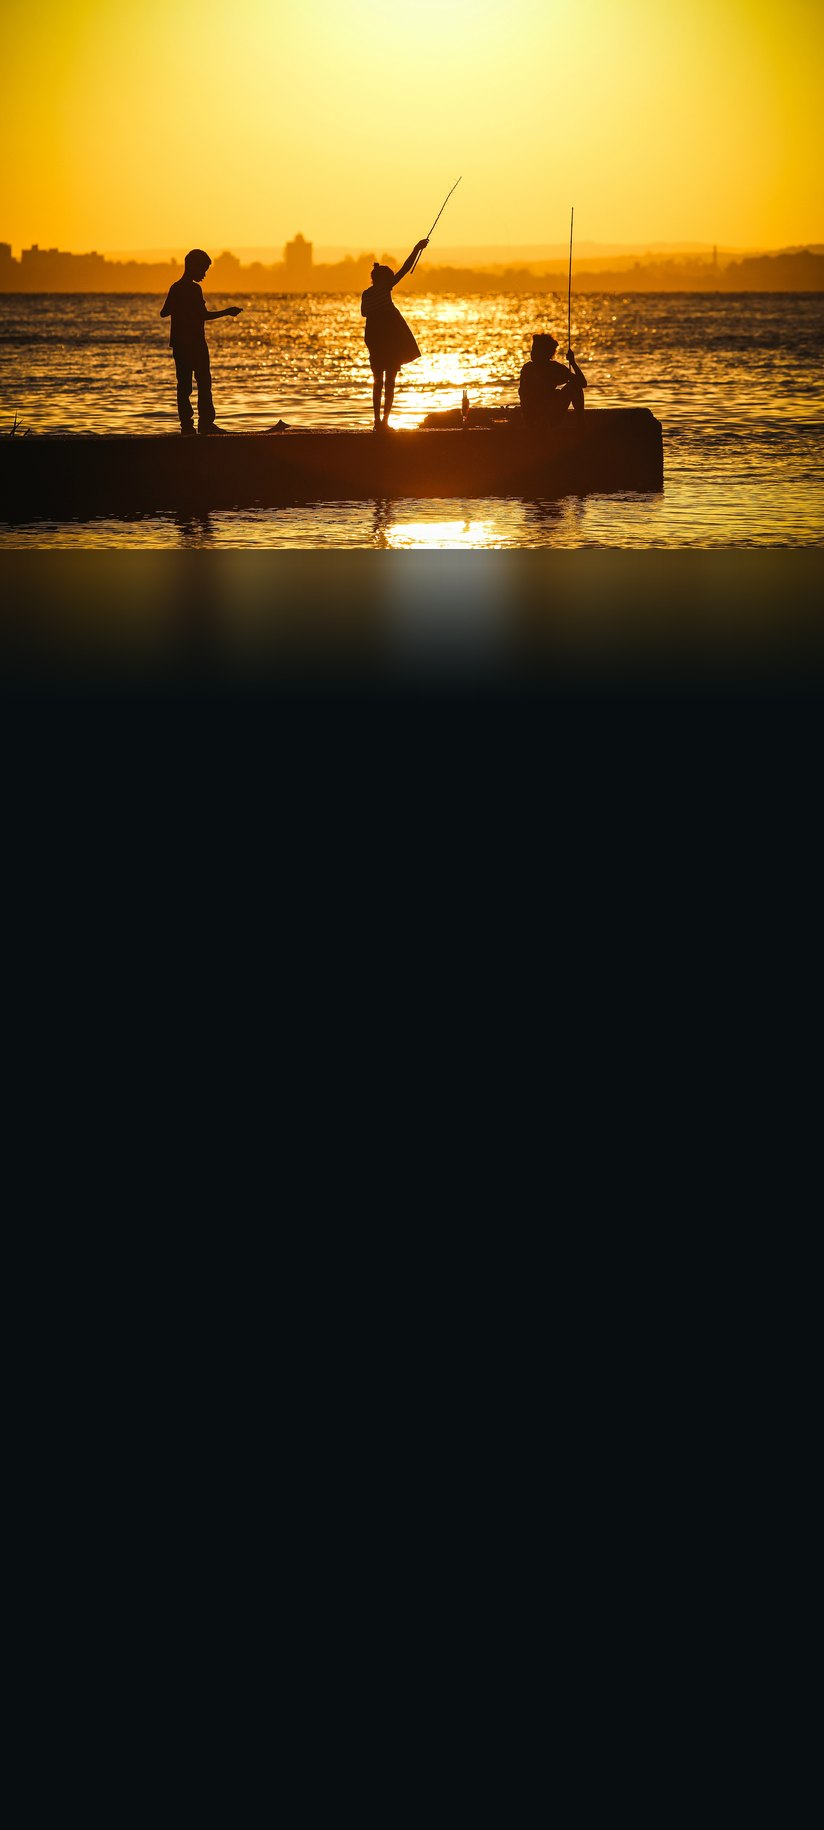
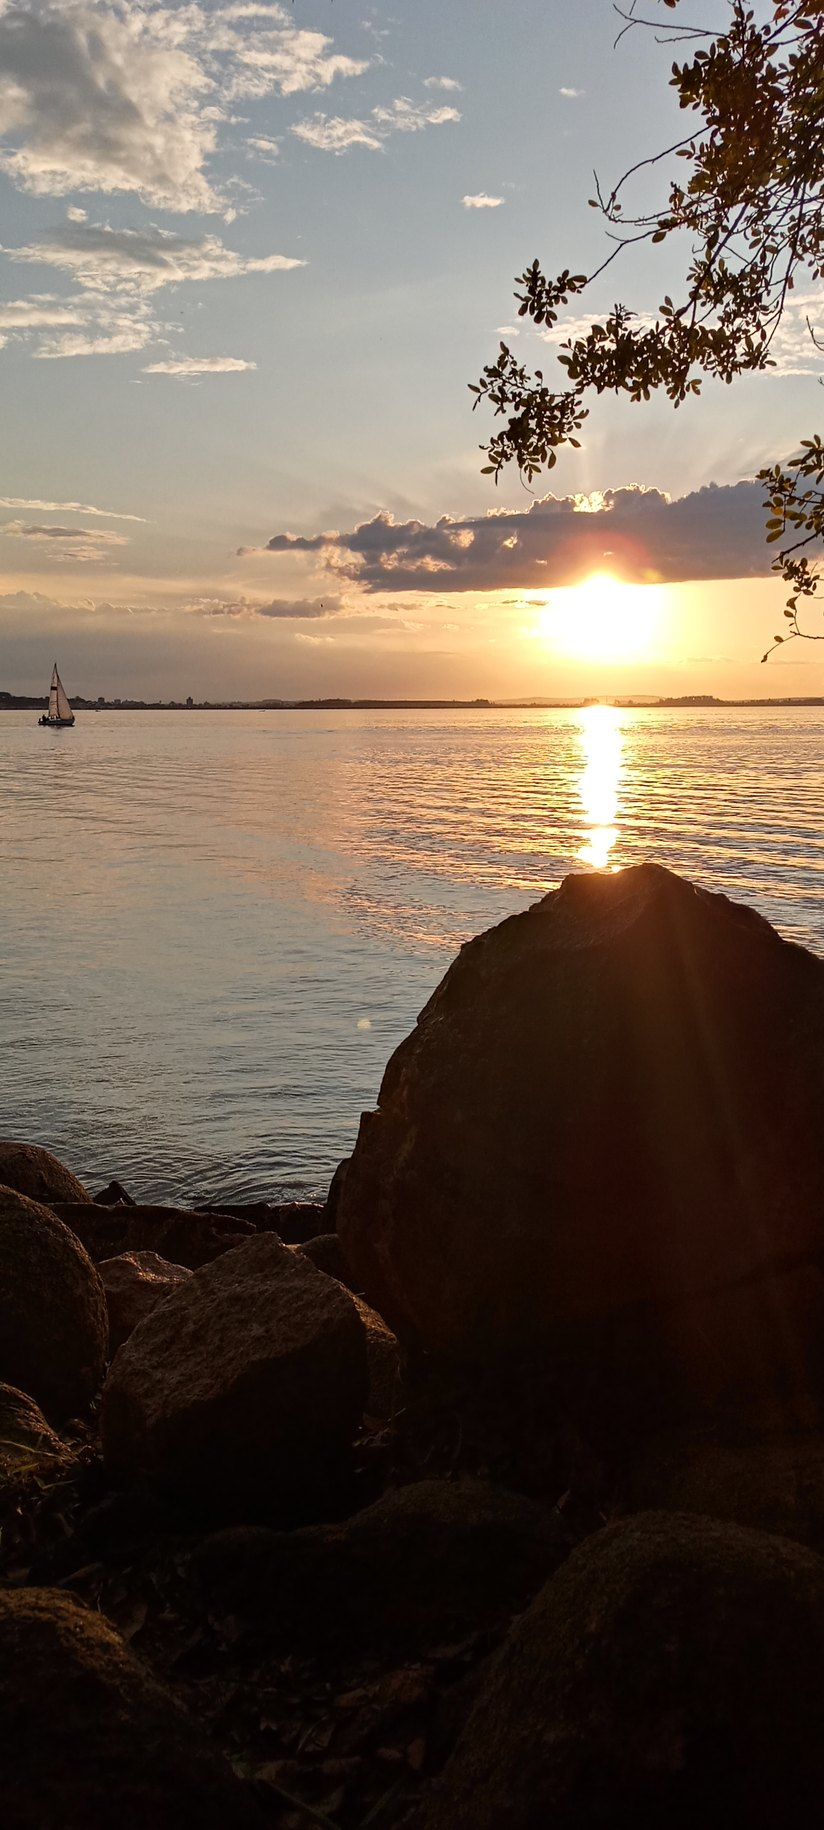
Fill the screen with the Pampulha church and the Guaíba sunset.
The wide crops left a black band under the picture. Both cities now use a vertical photo that covers the intro, with the church and the sunset in the top half.

diff --git a/lib/features/onboarding/presentation/city_landmarks.dart b/lib/features/onboarding/presentation/city_landmarks.dart
@@ -48,7 +48,7 @@ const cityLandmarks = <CityLandmark>[
     cityId: SampleIds.portoAlegre,
     name: 'Orla do Guaíba',
     asset: 'assets/images/landmarks/porto-alegre.jpg',
-    alignment: Alignment(0, -0.95),
+    alignment: Alignment(0.15, -1),
   ),
 ];
 

diff --git a/docs/CREDITOS_IMAGENS.md b/docs/CREDITOS_IMAGENS.md
@@ -11,8 +11,8 @@ Fotos novas deste bloco vêm do Unsplash, na [licença Unsplash](https://unsplas
 | `assets/images/landmarks/curitiba.jpg` | https://commons.wikimedia.org/wiki/File:Estufa_principal_do_Jardim_Bot%C3%A2nico_de_Curitiba_02.jpg — Rodrigo Argenton, CC BY-SA 4.0. Recorte com a estufa na metade de cima. |
 | `assets/images/landmarks/sao-paulo.jpg` | https://commons.wikimedia.org/wiki/File:MASP_Brazil.jpg — Wilfredor, CC0. Recorte com o volume suspenso na metade de cima. |
 | `assets/images/landmarks/rio.jpg` | https://commons.wikimedia.org/wiki/File:Christ_the_Redeemer_-_Cristo_Redentor.jpg — Arne Müseler, CC BY-SA 3.0 de. O monumento inteiro fica na metade de cima. |
-| `assets/images/landmarks/belo-horizonte.jpg` | https://commons.wikimedia.org/wiki/File:Igreja_de_Sao_Francisco_de_Assis_-_Fachada.jpg — Camilla Vitoria Machado, CC BY-SA 4.0. Igreja São Francisco de Assis da Pampulha vista de fora, com as abóbadas onduladas e o campanário inteiros sob o céu azul, na metade de cima. |
-| `assets/images/landmarks/porto-alegre.jpg` | https://commons.wikimedia.org/wiki/File:Porto_Alegre_por_Cristine_Huff_24.jpg — Cristine Denardi Huff, CC BY-SA 4.0. Pôr do sol no Guaíba, com pessoas na orla, na metade de cima. |
+| `assets/images/landmarks/belo-horizonte.jpg` | https://commons.wikimedia.org/wiki/File:Igreja_S%C3%A3o_Francisco_de_Assis_-_Belo_Horizonte_-_20240626144641.jpg — Rodrigo Rocatto, CC BY-SA 4.0. Igreja São Francisco de Assis da Pampulha vista de fora, abóbadas e campanário inteiros no alto, calçada até o fim da tela. |
+| `assets/images/landmarks/porto-alegre.jpg` | https://commons.wikimedia.org/wiki/File:Orla_do_Gua%C3%ADba_com_pr%C3%B3ximo_ao_Pontal.jpg — Dangrsan, CC BY-SA 4.0. Pôr do sol na orla do Guaíba, sol na metade de cima e pedras da orla até o fim da tela. |
 | `assets/images/rooms/gallery/terror.jpg` | https://unsplash.com/photos/1509248961158-e54f6934749c |
 | `assets/images/rooms/gallery/misterio.jpg` | https://unsplash.com/photos/1521587760476-6c12a4b040da |
 | `assets/images/rooms/gallery/aventura.jpg` | https://unsplash.com/photos/1441974231531-c6227db76b6e |

diff --git a/docs/DECISOES.md b/docs/DECISOES.md
@@ -1,5 +1,13 @@
 # Decisões provisórias
 
+## A foto cobre a tela inteira
+
+- **Data:** 2026-11-02
+- **Decisão:** a foto de Belo Horizonte e a de Porto Alegre são retratos verticais do lugar, no mesmo formato da tela. O `BoxFit.cover` mostra a foto de ponta a ponta, atrás do título e do cartão. A igreja fica na metade de cima, com a calçada embaixo. O pôr do sol fica na metade de cima, com a orla embaixo. Curitiba, Rio e São Paulo já cobriam a área visível e continuam iguais.
+- **Motivo:** as fotos anteriores eram largas. O retrato montado deixava uma faixa preta entre a imagem e o título.
+- **Onde está no código:** `assets/images/landmarks/` e `docs/CREDITOS_IMAGENS.md`.
+- **Como trocar depois:** outra foto entra no mesmo arquivo, já no formato alto da tela, com o assunto na metade de cima.
+
 ## Belo Horizonte e Porto Alegre trocam de foto
 
 - **Data:** 2026-11-02
